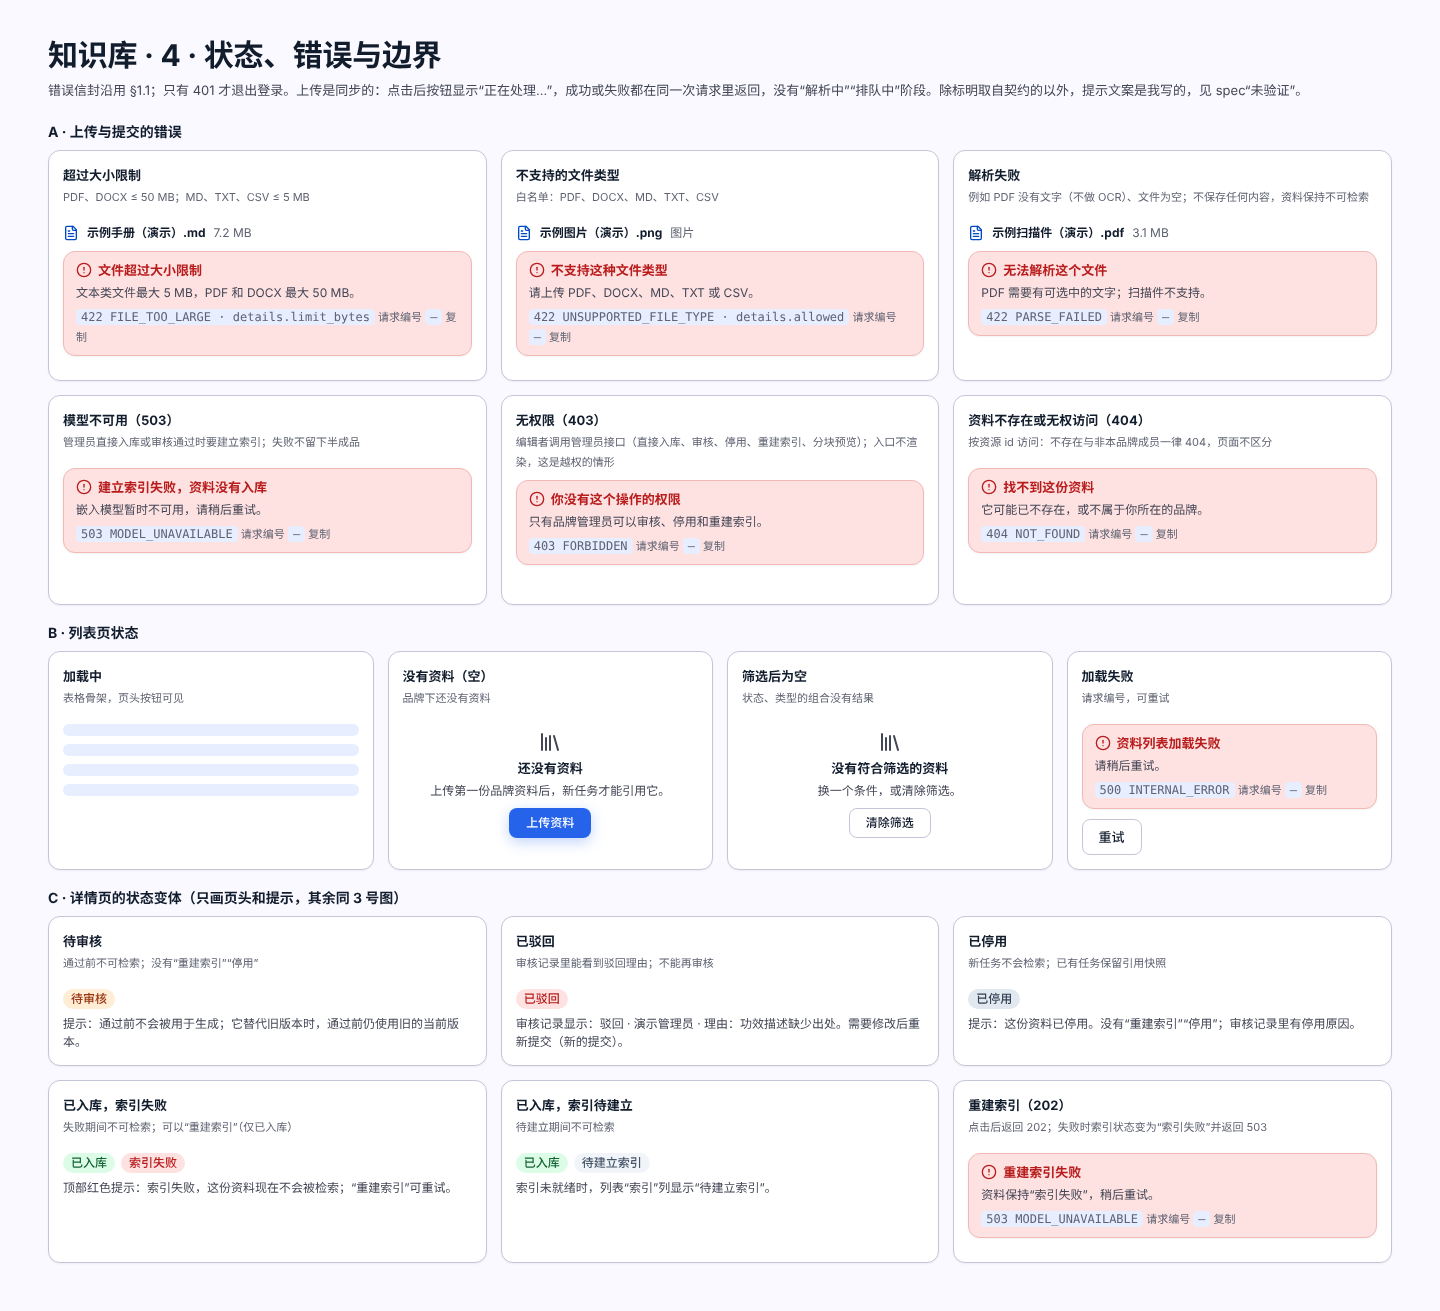
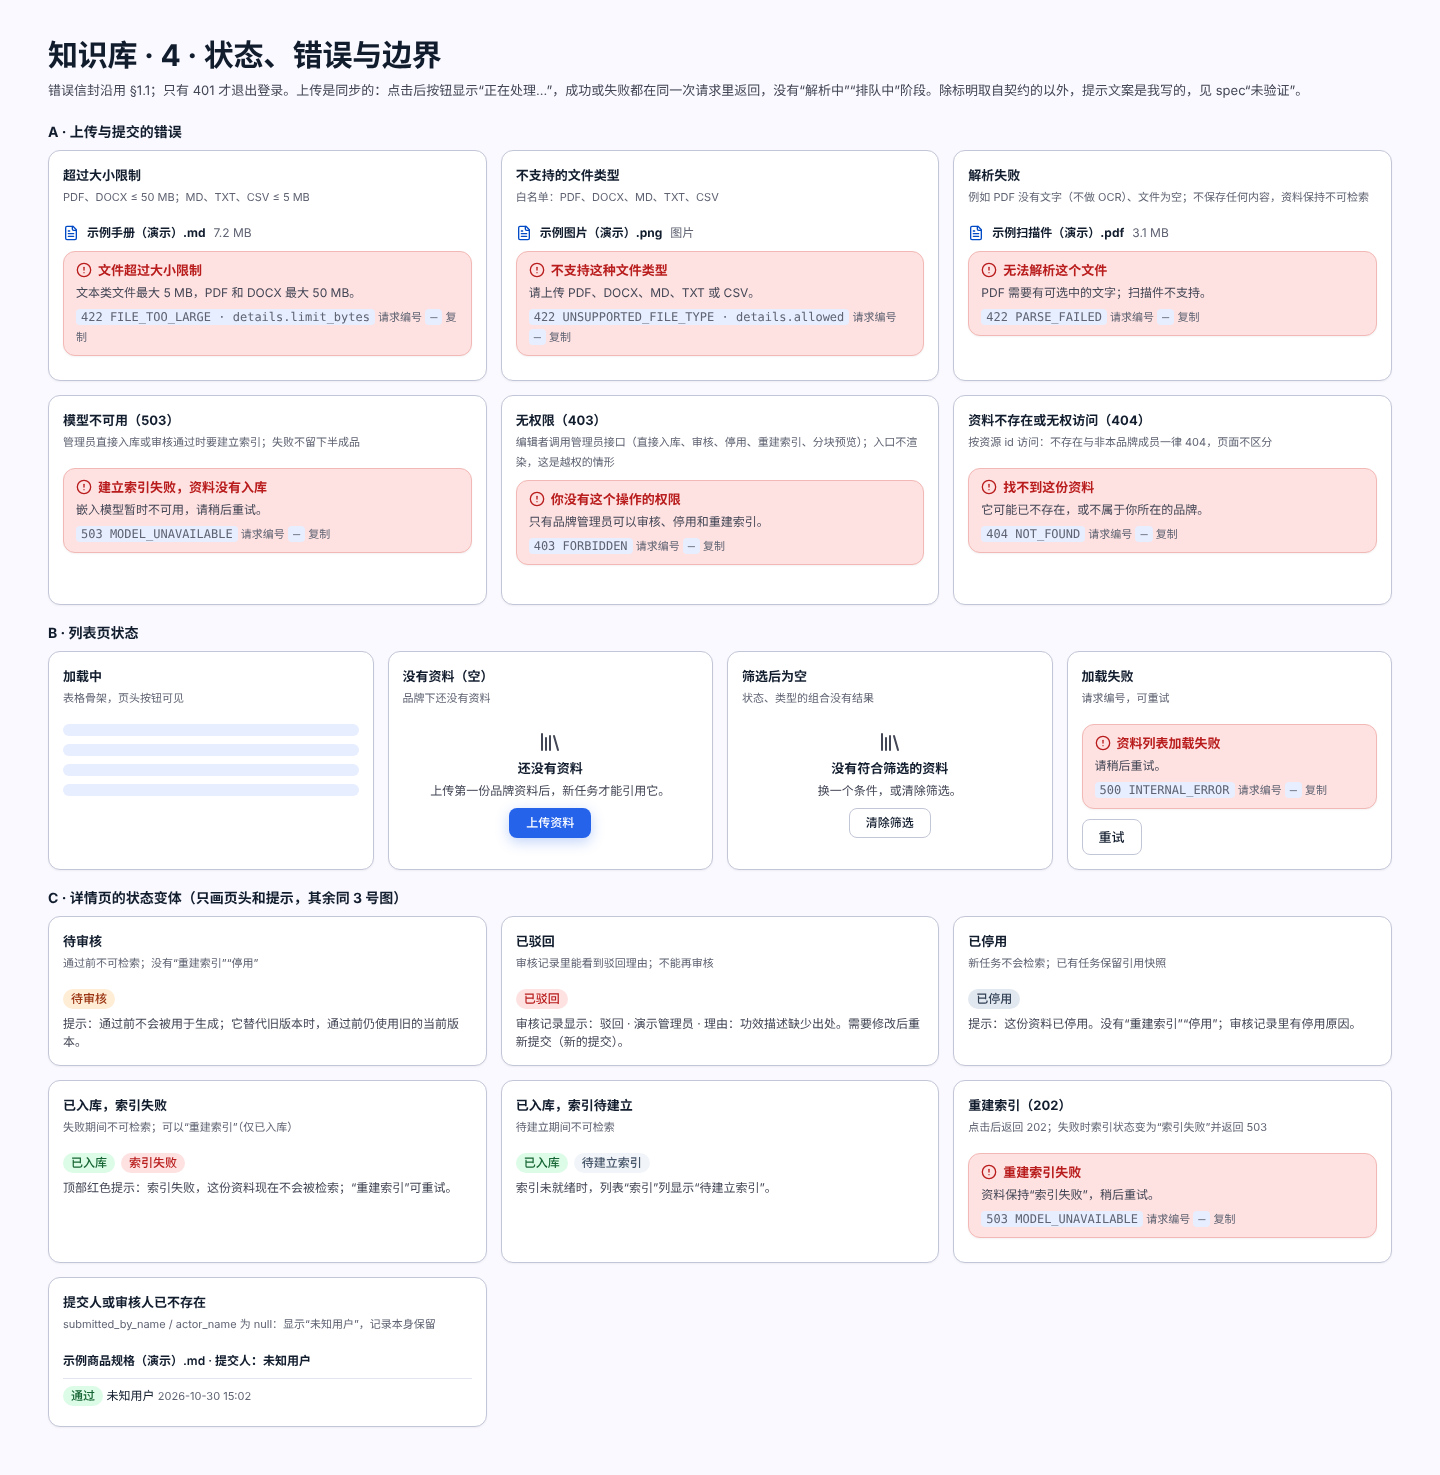
design: 知识库 按审核意见改姓名字段、新资料判断与契约不一致说明
Claude-Session: https://claude.ai/code/session_01JAXYkTcwLHpWH93jTJhAHo

Changed region(s): [[0.0312, 0.0305, 0.9688, 0.9764]]

diff --git a/docs/design/knowledge-base/spec.md b/docs/design/knowledge-base/spec.md
@@ -11,7 +11,7 @@
 | 01-document-list-and-upload.png | 品牌管理员和编辑者的资料列表；管理员上传（直接入库）、编辑者提交（待审）、处理中 |
 | 02-review-queue-and-review.png | 待审队列；审核弹窗：通过、驳回（理由必填，含空理由的校验）、通过时 503、409 |
 | 03-document-detail-and-deactivate.png | 管理员与编辑者看到的资料详情（元数据、分块预览、版本链、审核记录）；停用弹窗（带原因）、停用时 409 |
-| 04-states-and-errors.png | 上传错误（超限、类型、解析失败）、503、403、404；列表的加载、空、筛选后为空、失败；详情的各状态变体 |
+| 04-states-and-errors.png | 上传错误（超限、类型、解析失败）、503、403、404；列表的加载、空、筛选后为空、失败；详情的各状态变体；提交人或审核人已不存在（“未知用户”） |
 
 ## 角色与权限
 | 操作 | 编辑者 | 品牌管理员 |
@@ -60,7 +60,7 @@
 
 **资料详情**（`GET /knowledge-documents/{id}`）
 - 页头：标题、类型、版本、提交人、提交时间；状态与索引状态标签。操作（管理员）：重建索引（仅已入库）、上传新版本、停用（仅已入库）；编辑者：提交新版本（待审）。
-- 元数据卡、分块预览（仅管理员，翻页，`GET …/chunks?page=`）、版本链（当前版本标“当前版本”，其余标“历史版本”）、审核记录（只增不改：操作、人、时间、理由）。
+- 元数据卡、分块预览（仅管理员，翻页，`GET …/chunks?page=`）、版本链（当前版本标“当前版本”，其余标“历史版本”）、审核记录（只增不改：操作、审核人姓名 `actor_name`、时间、理由；用户已不存在显示“未知用户”）。
 - 索引失败时顶部红色提示，失败期间不可检索，可“重建索引”；已停用时提示“新任务不会再检索它；已有任务保留当时引用的快照”。
 
 **停用窗口**（`POST /knowledge-documents/{id}/deactivate`）：显示资料摘要；“原因”输入框，**界面画成选填**（接口 `reason` 可选，≤500 字，写入这次停用的审核记录和审计）。说明：新任务不会再检索它，已有任务保留引用快照，不会物理删除。A 允许界面做成必填，只需去掉“选填”并禁用提交按钮，其余不变。
@@ -80,9 +80,9 @@
 - 审核状态与索引状态分开显示。
 
 ## 未验证
-- 列表和详情的响应字段：契约只写了 `id`、`brand_id`、`status`、`index_status`、`version`、`submitted_by`、`created_at`、`is_current`、`group_id`，没有写 `title`、`doc_type`、提交人姓名（只有 `submitted_by` 的 id）。图里显示标题、类型和提交人姓名，需要后端返回，或前端用成员列表换算，请 A 确认。
-- 版本链、审核记录里每一项的字段（操作、审核人、时间、理由）契约没有逐个列出，图按 `kb_review` 的描述画。
-- 待审队列的“与已有资料”一列（新资料或更新）：提交请求里有 `supersedes_document_id`，但响应是否带回契约没写。
+- 列表和详情的响应字段：契约只写了 `id`、`brand_id`、`status`、`index_status`、`version`、`submitted_by`、`created_at`、`is_current`、`group_id`，没有写 `title`、`doc_type`。提交人姓名按后端 PR #56 的新增字段 `DocumentPublic.submitted_by_name` 画（无姓名取邮箱，用户已不存在为 null，显示“未知用户”）；字段名等 A 合并 #56 后以契约为准。`title`、`doc_type` 是否返回仍需 A 确认。
+- 版本链里每一项的字段契约没有逐个列出，图按 `kb_review` 的描述画；审核记录的审核人姓名按 PR #56 的 `actor_name`（同提交人的规则）画。
+- 待审队列的“与已有资料”一列按 `version > 1` 判断：版本号大于 1 显示“更新”，等于 1 显示“新资料”；不依赖响应里不存在的 `supersedes_document_id`。
 - 编辑者在列表里能否看到别人提交的待审、被驳回资料：契约只说“按授权品牌列举”，图按“能看到”画。
 - 重建索引（202）是否异步、期间旧索引是否可用，契约没写，图只画了失败（503）的情形；Stitch 版里“期间原索引可用”没有依据，没有采用。
 - “待审队列”导航徽标的数量来源（是否要单独请求），没有确认。
@@ -92,5 +92,5 @@
 - 没有调用任何接口；图的版面是我自己看的，没有别人看过。
 
 ## 与契约不一致的地方
-- 契约 4 节的实现约定里写“单文件 ≤ 10 MB（超过 413）”，与 1.5 节的“PDF、DOCX 50 MB，MD、TXT、CSV 5 MB，超限 422 `FILE_TOO_LARGE`”矛盾；图按 1.5（A 的实现记录为准）。
+- 契约 4 节的实现约定里写“单文件 ≤ 10 MB（超过 413）”，与 1.5 节的“PDF、DOCX 50 MB，MD、TXT、CSV 5 MB，超限 422 `FILE_TOO_LARGE`”矛盾；图按 1.5（A 的实现记录为准）。以契约 1.5 为准，A 会更正契约 4 节的旧说法。
 - 需求里提到的 `queued` 状态：契约的资料状态只有 4 个，没有 `queued`，所以没有画。
